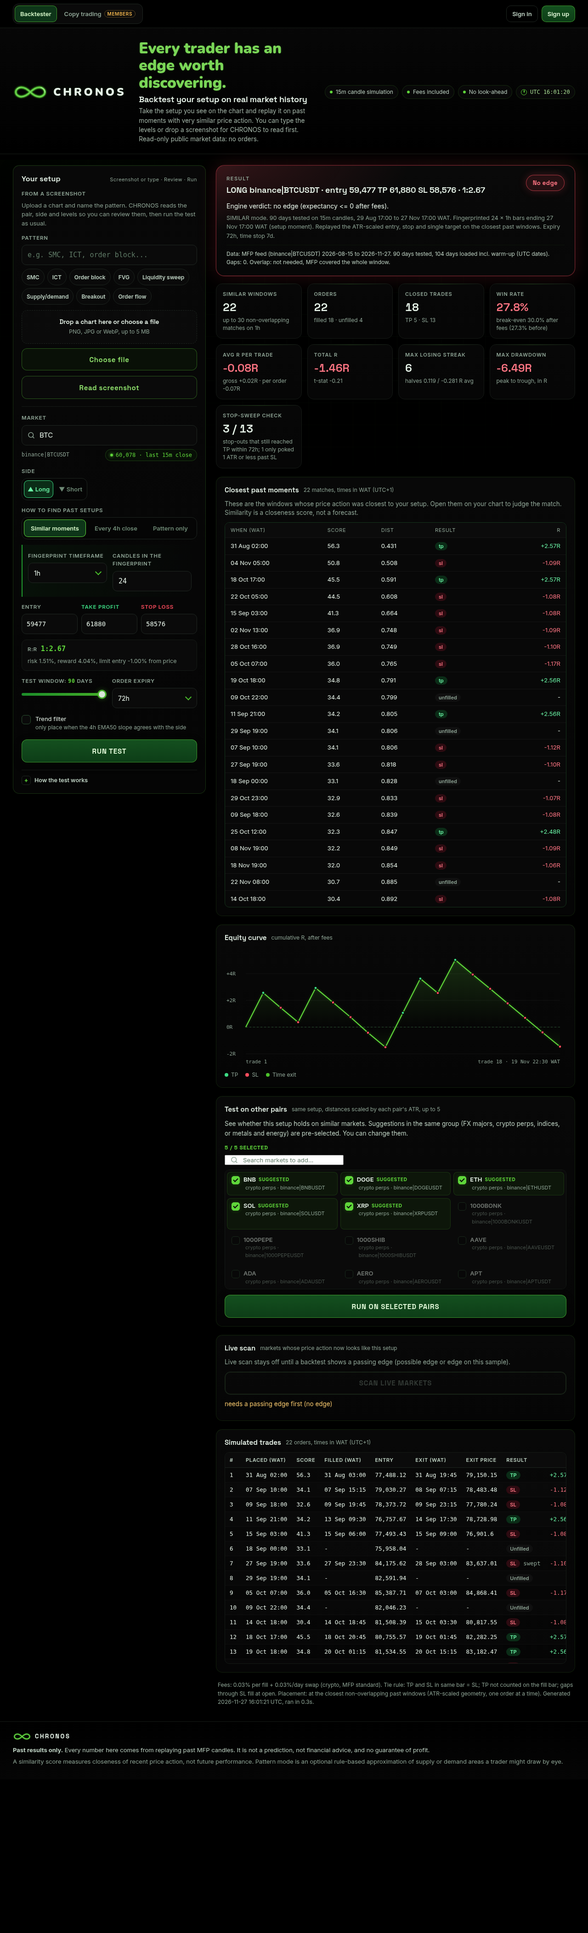
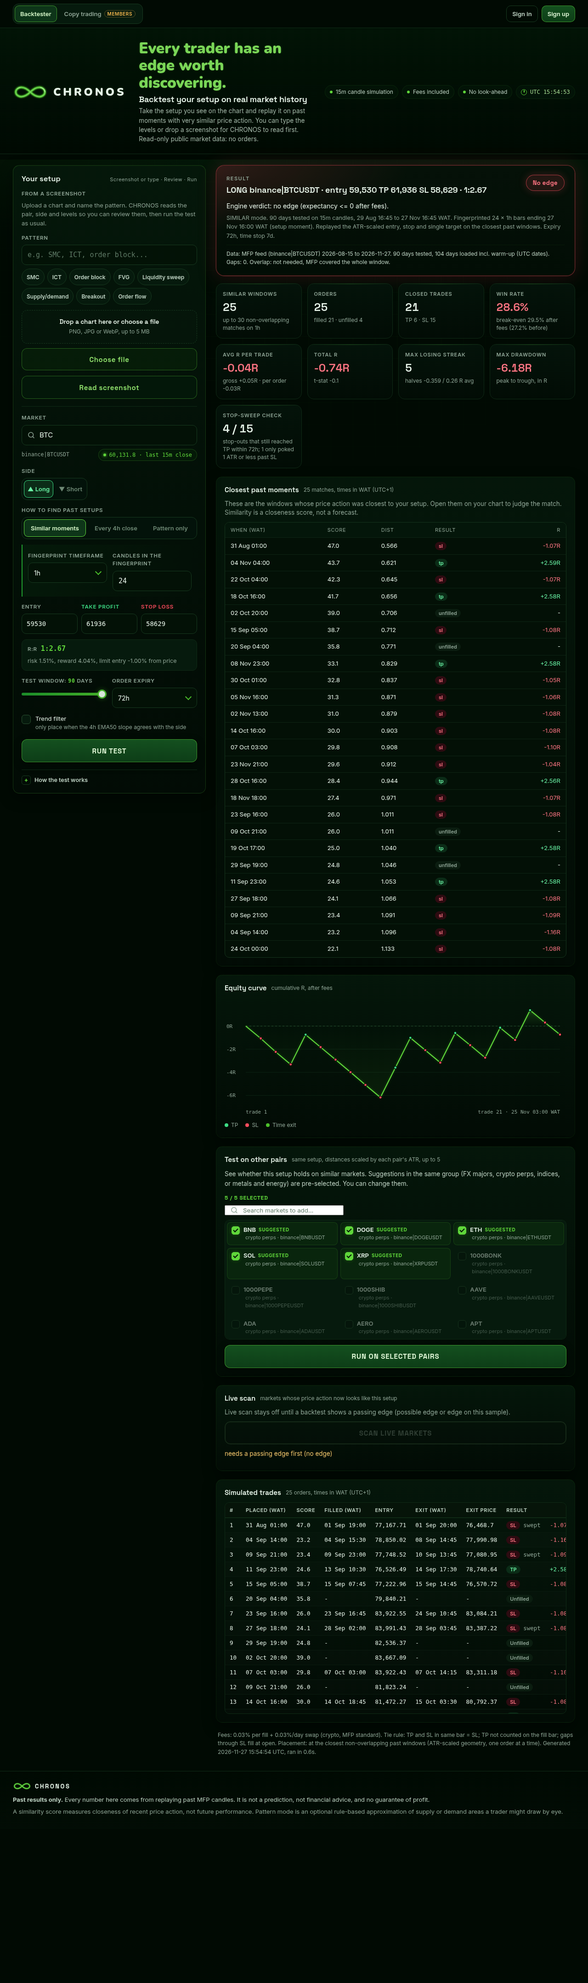
Revert "True black background with neutral black panels; green accents kept"
This reverts commit dd46ae83fead7a7c941cc9db5a52b5ef10f94675.

diff --git a/web/static/style.css b/web/static/style.css
@@ -2,7 +2,7 @@
 @font-face{font-family:"Inter";src:url(assets/fonts/inter-var-latin.woff2) format("woff2");font-weight:100 900;font-display:swap}
 @font-face{font-family:"Space Grotesk";src:url(assets/fonts/space-grotesk-var-latin.woff2) format("woff2");font-weight:300 700;font-display:swap}
 :root{
-  --bg:#050505; --bg2:#070707; --panel:#0a0a0a; --panel2:#0e0e0e; --panel3:#131313;
+  --bg:#010a03; --bg2:#020d05; --panel:#04130a; --panel2:#061a0d; --panel3:#0a2212;
   --line:#0f2a16; --line2:#17391f; --edge:rgba(95,214,58,0.077);
   --txt:#e8f5ea; --txt2:#bfd3c4; --mut:#8fa596;
   --cyan:#4dff1a; --cyan2:#39e61a; --teal:#1f9c2e; --teal-d:#0a3a12;
@@ -26,7 +26,7 @@ a{color:var(--cyan)}
 .hero,.wrap,.foot{position:relative;z-index:1}
 
 /* ---------- hero */
-.hero{border-bottom:1px solid var(--line);background:linear-gradient(180deg,rgba(10,10,10,.6),rgba(5,5,5,0))}
+.hero{border-bottom:1px solid var(--line);background:linear-gradient(180deg,rgba(4,18,8,.6),rgba(1,10,3,0))}
 .hero-in{max-width:1400px;margin:0 auto;padding:26px 28px 22px;display:grid;grid-template-columns:auto 1fr auto;gap:28px;align-items:center}
 .brand{display:flex;align-items:center;gap:12px;text-decoration:none}
 .mark{width:68px;height:34px;filter:drop-shadow(0 0 10px rgba(95,214,58,0.248));animation:pulse 4.5s ease-in-out infinite}
@@ -35,14 +35,14 @@ a{color:var(--cyan)}
 .hero-copy h1{margin:0;font:600 22px/1.25 var(--disp);letter-spacing:-.01em}
 .hero-copy .sub{margin:4px 0 0;color:var(--mut);font-size:13.5px;max-width:640px}
 .hero-pills{display:flex;gap:8px;list-style:none;margin:0;padding:0;flex-wrap:wrap;justify-content:flex-end}
-.hero-pills li{display:flex;align-items:center;gap:7px;font-size:12px;color:var(--txt2);border:1px solid var(--line2);background:rgba(13,13,13,.7);padding:5px 10px;border-radius:999px;white-space:nowrap}
+.hero-pills li{display:flex;align-items:center;gap:7px;font-size:12px;color:var(--txt2);border:1px solid var(--line2);background:rgba(6,24,12,.7);padding:5px 10px;border-radius:999px;white-space:nowrap}
 .dot{width:6px;height:6px;border-radius:50%;background:var(--cyan);box-shadow:0 0 8px var(--cyan)}
 
 /* ---------- layout */
 .wrap{max-width:1400px;margin:0 auto;display:grid;grid-template-columns:420px minmax(0,1fr);gap:22px;padding:24px 28px 32px;align-items:start}
 .form-panel{position:relative}
 .results{min-width:0}
-.panel{background:linear-gradient(180deg,var(--panel),#060606);border:1px solid var(--line);border-radius:var(--r);padding:18px;margin-bottom:18px;
+.panel{background:linear-gradient(180deg,var(--panel),#020c05);border:1px solid var(--line);border-radius:var(--r);padding:18px;margin-bottom:18px;
   box-shadow:inset 0 1px 0 rgba(95,214,58,0.028),0 10px 30px rgba(0,0,0,.35)}
 .panel-title{display:flex;justify-content:space-between;align-items:baseline;gap:10px;margin-bottom:6px}
 .panel-title h2{margin:0;font:600 16px var(--disp);letter-spacing:.01em}
@@ -70,7 +70,7 @@ select:disabled{opacity:.45;cursor:not-allowed}
 .ac{position:relative}
 .ac-ico{position:absolute;left:12px;top:50%;width:18px;height:18px;transform:translateY(-50%);stroke:var(--mut);fill:none;stroke-width:2;stroke-linecap:round;pointer-events:none}
 .ac input{padding-left:38px;font-family:var(--sans)}
-.ac-list{position:absolute;z-index:20;left:0;right:0;top:calc(100% + 6px);margin:0;padding:6px;list-style:none;background:#0a0a0a;
+.ac-list{position:absolute;z-index:20;left:0;right:0;top:calc(100% + 6px);margin:0;padding:6px;list-style:none;background:#051409;
   border:1px solid var(--line2);border-radius:var(--r-sm);max-height:300px;overflow:auto;box-shadow:0 18px 40px rgba(0,0,0,.6),var(--glow)}
 .ac-list li{padding:9px 10px;border-radius:8px;cursor:pointer;display:flex;justify-content:space-between;gap:10px;font-weight:500}
 .ac-list li.act,.ac-list li:hover{background:rgba(57,200,20,0.055);color:#fff}
@@ -111,7 +111,7 @@ input[type=range]:focus-visible{outline:2px solid var(--cyan2);outline-offset:4p
 .chk{display:flex;gap:10px;align-items:flex-start;margin-top:14px;color:var(--txt);font-size:13px;cursor:pointer;line-height:1.45}
 .chk input{position:absolute;opacity:0;width:1px;height:1px}
 .chk .box{flex:none;width:20px;height:20px;margin-top:1px;border-radius:6px;border:1.5px solid #2a4f30;background:var(--panel2);display:grid;place-items:center;transition:all .15s}
-.chk .box::after{content:"";width:5px;height:10px;border:solid #080808;border-width:0 2.5px 2.5px 0;transform:rotate(45deg) translate(-1px,-1px);opacity:0}
+.chk .box::after{content:"";width:5px;height:10px;border:solid #021005;border-width:0 2.5px 2.5px 0;transform:rotate(45deg) translate(-1px,-1px);opacity:0}
 .chk input:checked+.box{background:var(--cyan);border-color:var(--cyan);box-shadow:0 0 10px rgba(95,214,58,0.275)}
 .chk input:checked+.box::after{opacity:1}
 .chk input:focus-visible+.box{outline:2px solid var(--cyan2);outline-offset:2px}
@@ -123,7 +123,7 @@ input[type=range]:focus-visible{outline:2px solid var(--cyan2);outline-offset:4p
 .run:active{transform:translateY(1px)}
 .run:focus-visible{outline:2px solid #fff;outline-offset:3px}
 .run:disabled{cursor:wait;filter:saturate(.6) brightness(.85)}
-.spin{width:16px;height:16px;border:2px solid rgba(8,8,8,.3);border-top-color:#021405;border-radius:50%;animation:s .8s linear infinite;flex:none}
+.spin{width:16px;height:16px;border:2px solid rgba(2,16,6,.3);border-top-color:#021405;border-radius:50%;animation:s .8s linear infinite;flex:none}
 @keyframes s{to{transform:rotate(360deg)}}
 .err,.inline-err{margin-top:10px;color:#ff9aa7;font-size:13px}
 .err{background:rgba(255,77,94,.08);border:1px solid rgba(255,77,94,.3);padding:9px 12px;border-radius:10px}
@@ -144,7 +144,7 @@ input[type=range]:focus-visible{outline:2px solid var(--cyan2);outline-offset:4p
 .shot-picks button:hover{border-color:#2a5a33;color:var(--txt)}
 .shot-picks button:focus-visible{outline:2px solid var(--cyan2);outline-offset:1px}
 .shot-picks button.on{border-color:rgba(95,214,58,0.248);color:var(--cyan);background:rgba(57,200,20,0.066);box-shadow:0 0 12px rgba(95,214,58,0.066)}
-.shot-drop{position:relative;display:block;margin-top:12px;border:1px dashed var(--line2);border-radius:12px;padding:16px 14px;text-align:center;cursor:pointer;background:rgba(13,13,13,.5);transition:border-color .15s,background .15s,box-shadow .15s}
+.shot-drop{position:relative;display:block;margin-top:12px;border:1px dashed var(--line2);border-radius:12px;padding:16px 14px;text-align:center;cursor:pointer;background:rgba(6,24,12,.5);transition:border-color .15s,background .15s,box-shadow .15s}
 .shot-drop:hover,.shot-drop:focus-visible{border-color:var(--cyan2);box-shadow:0 0 0 3px rgba(57,200,20,0.066);outline:none}
 .shot-choose{position:relative;margin-top:10px;min-height:48px;border-radius:12px;border:1px solid rgba(95,214,58,0.248);background:rgba(57,200,20,0.044);color:var(--cyan);font:650 15px var(--disp);letter-spacing:.04em;display:flex;align-items:center;justify-content:center;cursor:pointer}
 .shot-choose:hover{background:rgba(57,200,20,0.077)}
@@ -176,7 +176,7 @@ input.unsure,select.unsure{border-color:rgba(240,180,76,.65)!important;box-shado
 .empty-steps{display:flex;justify-content:center;gap:10px;flex-wrap:wrap;list-style:none;padding:0;margin:20px 0 0;counter-reset:st}
 .empty-steps li{counter-increment:st;display:flex;align-items:center;gap:8px;font-size:12.5px;color:var(--txt2);border:1px solid var(--line2);background:var(--panel);padding:6px 12px 6px 6px;border-radius:999px}
 .empty-steps li::before{content:counter(st);display:grid;place-items:center;width:20px;height:20px;border-radius:50%;background:rgba(57,200,20,0.083);color:var(--cyan);font-weight:700;font-size:11px}
-.sk{background:linear-gradient(90deg,var(--panel) 0%,#141414 50%,var(--panel) 100%);background-size:200% 100%;animation:shim 1.4s linear infinite;border-radius:var(--r);border:1px solid var(--line)}
+.sk{background:linear-gradient(90deg,var(--panel) 0%,#0b2412 50%,var(--panel) 100%);background-size:200% 100%;animation:shim 1.4s linear infinite;border-radius:var(--r);border:1px solid var(--line)}
 @keyframes shim{to{background-position:-200% 0}}
 .sk-verdict{height:130px;margin-bottom:14px}
 .sk-cards{display:grid;grid-template-columns:repeat(4,1fr);gap:12px;margin-bottom:14px}
@@ -187,7 +187,7 @@ input.unsure,select.unsure{border-color:rgba(240,180,76,.65)!important;box-shado
 
 /* ---------- results */
 .verdict-card{--vc:var(--cyan);position:relative;border-radius:18px;padding:20px 22px;margin-bottom:16px;border:1px solid color-mix(in srgb,var(--vc) 45%,transparent);
-  background:radial-gradient(600px 200px at 0% 0%,color-mix(in srgb,var(--vc) 16%,transparent),transparent 70%),linear-gradient(180deg,#090909,#070707);
+  background:radial-gradient(600px 200px at 0% 0%,color-mix(in srgb,var(--vc) 16%,transparent),transparent 70%),linear-gradient(180deg,#051108,#020d05);
   box-shadow:0 0 0 1px color-mix(in srgb,var(--vc) 10%,transparent),0 0 40px color-mix(in srgb,var(--vc) 16%,transparent),0 14px 36px rgba(0,0,0,.4)}
 .verdict-card.edge{--vc:var(--grn)} .verdict-card.noedge{--vc:var(--red)} .verdict-card.few{--vc:var(--amb)} .verdict-card.maybe{--vc:var(--cyan)}
 .res-head{display:flex;justify-content:space-between;align-items:flex-start;gap:14px}
@@ -204,7 +204,7 @@ input.unsure,select.unsure{border-color:rgba(240,180,76,.65)!important;box-shado
 .provenance{margin-top:10px;padding-top:10px;border-top:1px solid rgba(95,214,58,0.066);color:var(--txt2);font-size:12px}
 .warn{background:rgba(240,180,76,.07);border:1px solid rgba(240,180,76,.3);color:#f5c977;padding:10px 14px;border-radius:12px;margin-bottom:16px;font-size:13px;line-height:1.55}
 .cards{display:grid;grid-template-columns:repeat(auto-fill,minmax(180px,1fr));gap:12px;margin-bottom:18px}
-.card{background:linear-gradient(180deg,var(--panel),#060606);border:1px solid var(--line);border-radius:var(--r);padding:14px;position:relative;overflow:hidden;transition:border-color .15s}
+.card{background:linear-gradient(180deg,var(--panel),#020c05);border:1px solid var(--line);border-radius:var(--r);padding:14px;position:relative;overflow:hidden;transition:border-color .15s}
 .card::before{content:"";position:absolute;left:0;top:0;right:0;height:1px;background:linear-gradient(90deg,transparent,rgba(95,214,58,0.22),transparent)}
 .card:hover{border-color:var(--line2)}
 .card .k{color:var(--mut);font-size:11px;font-weight:600;text-transform:uppercase;letter-spacing:.08em}
@@ -218,14 +218,14 @@ canvas{width:100%;display:block}
 .lg.tp{background:var(--grn)} .lg.sl{background:var(--red)} .lg.time{background:var(--cyan2)}
 .tbl-wrap{max-height:460px;overflow:auto;border:1px solid var(--line);border-radius:var(--r-sm);-webkit-overflow-scrolling:touch;overscroll-behavior-x:contain}
 table{width:100%;border-collapse:separate;border-spacing:0;font:12.5px var(--mono);font-variant-numeric:tabular-nums}
-th{position:sticky;top:0;z-index:1;background:#0b0b0b;text-align:left;color:var(--txt2);font:600 11px var(--sans);letter-spacing:.06em;text-transform:uppercase;padding:9px 10px;border-bottom:1px solid var(--line2);white-space:nowrap}
-td{padding:8px 10px;border-bottom:1px solid #0f0f0f;white-space:nowrap;color:var(--txt)}
+th{position:sticky;top:0;z-index:1;background:#061409;text-align:left;color:var(--txt2);font:600 11px var(--sans);letter-spacing:.06em;text-transform:uppercase;padding:9px 10px;border-bottom:1px solid var(--line2);white-space:nowrap}
+td{padding:8px 10px;border-bottom:1px solid #0a1a0f;white-space:nowrap;color:var(--txt)}
 tbody tr:nth-child(even) td{background:rgba(255,255,255,.012)}
 tbody tr:hover td{background:rgba(57,200,20,0.028)}
 .r{text-align:right}
 .tag{padding:2px 8px;border-radius:999px;font:600 11px var(--sans)}
 .tag.tp{background:rgba(61,220,132,.14);color:var(--grn)} .tag.sl{background:rgba(255,77,94,.14);color:#ff7583}
-.tag.time{background:rgba(57,200,20,0.077);color:var(--cyan)} .tag.unf{background:#101010;color:var(--mut)}
+.tag.time{background:rgba(57,200,20,0.077);color:var(--cyan)} .tag.unf{background:#0b1d10;color:var(--mut)}
 .meta{color:var(--mut);font-size:12px;line-height:1.55;padding:0 4px}
 
 /* ---------- insights */
@@ -248,7 +248,7 @@ tbody tr:hover td{background:rgba(57,200,20,0.028)}
 .ins-disc{color:var(--mut);font-size:12px;margin-top:6px;padding-top:10px;border-top:1px solid var(--line)}
 
 /* ---------- footer + toasts */
-.foot{border-top:1px solid var(--line);background:linear-gradient(0deg,#070707,transparent)}
+.foot{border-top:1px solid var(--line);background:linear-gradient(0deg,#020d05,transparent)}
 .foot-in{max-width:1400px;margin:0 auto;padding:22px 28px calc(28px + env(safe-area-inset-bottom));display:grid;gap:6px;font-size:13px;color:var(--txt2)}
 .foot-in p{margin:0}
 .foot-brand{display:flex;align-items:center;gap:8px;font:700 13px var(--disp);letter-spacing:.2em;color:var(--txt);margin-bottom:4px}
@@ -274,7 +274,7 @@ tbody tr:hover td{background:rgba(57,200,20,0.028)}
 .cmp-item.is-off{opacity:.45;cursor:not-allowed}
 .cmp-item input{position:absolute;opacity:0;width:1px;height:1px}
 .cmp-item .box{flex:none;width:18px;height:18px;margin-top:1px;border-radius:5px;border:1.5px solid #2a4f30;background:var(--panel);display:grid;place-items:center}
-.cmp-item .box::after{content:"";width:4px;height:8px;border:solid #080808;border-width:0 2px 2px 0;transform:rotate(45deg) translate(-1px,-1px);opacity:0}
+.cmp-item .box::after{content:"";width:4px;height:8px;border:solid #021005;border-width:0 2px 2px 0;transform:rotate(45deg) translate(-1px,-1px);opacity:0}
 .cmp-item input:checked+.box{background:var(--cyan);border-color:var(--cyan);box-shadow:0 0 8px rgba(95,214,58,0.248)}
 .cmp-item input:checked+.box::after{opacity:1}
 .cmp-item input:focus-visible+.box{outline:2px solid var(--cyan2);outline-offset:2px}
@@ -287,8 +287,8 @@ tbody tr:hover td{background:rgba(57,200,20,0.028)}
 .cmp-summary{margin:16px 0 12px;padding:12px 14px;border-radius:12px;border:1px solid rgba(95,214,58,0.165);background:linear-gradient(90deg,rgba(57,200,20,0.055),rgba(57,200,20,0.011));font:600 14.5px/1.45 var(--disp);color:var(--txt)}
 .cmp-table{display:grid;gap:0;border:1px solid var(--line);border-radius:var(--r-sm);overflow:hidden;font-size:12.5px}
 .cmp-thead,.cmp-row{display:grid;grid-template-columns:minmax(7.5rem,1.3fr) 4.2rem 6.4rem 4.6rem 4.6rem 5.4rem minmax(7rem,1.4fr) minmax(7rem,1.3fr);gap:8px;align-items:start;padding:9px 12px}
-.cmp-thead{background:#0b0b0b;color:var(--txt2);font:600 11px var(--sans);letter-spacing:.05em;text-transform:uppercase}
-.cmp-row{border-top:1px solid #0f0f0f;color:var(--txt);font-variant-numeric:tabular-nums}
+.cmp-thead{background:#061409;color:var(--txt2);font:600 11px var(--sans);letter-spacing:.05em;text-transform:uppercase}
+.cmp-row{border-top:1px solid #0a1a0f;color:var(--txt);font-variant-numeric:tabular-nums}
 .cmp-row:nth-child(odd){background:rgba(255,255,255,.012)}
 .cmp-row.pooled{background:rgba(57,200,20,0.039);border-top:1px solid rgba(95,214,58,0.138);font-weight:600}
 .cmp-row.source .pair-name::after{content:" source";color:var(--mut);font:600 10px var(--sans);letter-spacing:.06em;text-transform:uppercase}
@@ -309,7 +309,7 @@ tbody tr:hover td{background:rgba(57,200,20,0.028)}
 .cmp-card .dat{margin-top:4px;color:var(--mut);font-size:12px;line-height:1.4}
 
 /* ---------- top bar: tabs + account */
-.topbar{border-bottom:1px solid var(--line);background:rgba(5,5,5,.72);backdrop-filter:blur(8px);-webkit-backdrop-filter:blur(8px)}
+.topbar{border-bottom:1px solid var(--line);background:rgba(1,10,3,.72);backdrop-filter:blur(8px);-webkit-backdrop-filter:blur(8px)}
 .topbar-in{max-width:1400px;margin:0 auto;padding:8px 28px;display:flex;align-items:center;justify-content:space-between;gap:12px}
 .tabs{display:flex;gap:4px;background:var(--panel2);border:1px solid var(--line2);border-radius:12px;padding:3px;min-width:0}
 .tab{display:flex;align-items:center;gap:6px;min-height:36px;padding:6px 12px;border-radius:9px;color:var(--mut);text-decoration:none;font:600 13px var(--sans);white-space:nowrap;transition:background .15s,color .15s}
@@ -320,8 +320,8 @@ tbody tr:hover td{background:rgba(57,200,20,0.028)}
 .acct{display:flex;align-items:center;gap:8px;min-width:0}
 .acct-btn{display:inline-flex;align-items:center;justify-content:center;min-height:36px;padding:6px 12px;border-radius:10px;border:1px solid var(--line2);background:transparent;color:var(--txt2);font:600 13px var(--sans);text-decoration:none;cursor:pointer;white-space:nowrap}
 .acct-btn:hover{border-color:#2a5a33;color:var(--txt)}
-.acct-btn.primary,.btn-acc.primary{background:linear-gradient(180deg,var(--cyan),var(--cyan2));color:#0c0c0c;border-color:transparent;box-shadow:0 0 18px rgba(95,214,58,0.138)}
-.acct-btn.primary:hover,.btn-acc.primary:hover{filter:brightness(1.08);color:#0c0c0c}
+.acct-btn.primary,.btn-acc.primary{background:linear-gradient(180deg,var(--cyan),var(--cyan2));color:#011a05;border-color:transparent;box-shadow:0 0 18px rgba(95,214,58,0.138)}
+.acct-btn.primary:hover,.btn-acc.primary:hover{filter:brightness(1.08);color:#011a05}
 .acct-email{color:var(--txt2);font-size:12.5px;max-width:200px;overflow:hidden;text-overflow:ellipsis;white-space:nowrap}
 
 /* ---------- copy trading */
@@ -336,7 +336,7 @@ tbody tr:hover td{background:rgba(57,200,20,0.028)}
 .btn-acc:disabled{opacity:.6;cursor:wait}
 .btn-acc.block{width:100%;margin-top:18px}
 .ct-soon{display:grid;gap:10px;margin-top:18px}
-.ct-soon span{height:56px;border-radius:12px;border:1px dashed var(--line2);background:linear-gradient(90deg,rgba(13,13,13,.6),rgba(57,200,20,0.028),rgba(13,13,13,.6));background-size:200% 100%;animation:shimmer 2.4s linear infinite}
+.ct-soon span{height:56px;border-radius:12px;border:1px dashed var(--line2);background:linear-gradient(90deg,rgba(6,24,12,.6),rgba(57,200,20,0.028),rgba(6,24,12,.6));background-size:200% 100%;animation:shimmer 2.4s linear infinite}
 @keyframes shimmer{0%{background-position:200% 0}100%{background-position:-200% 0}}
 
 /* ---------- auth pages */
@@ -410,15 +410,15 @@ tbody tr:hover td{background:rgba(57,200,20,0.028)}
 .mode-block .seg{display:flex;flex-wrap:wrap}
 .mode-block .seg button{flex:1 1 auto;min-width:7.5rem}
 .sim-lead,.scan-lead{margin:0 0 10px;color:var(--muted,#8fa596);font-size:13.5px;line-height:1.45}
-.sim-table,.scan-table{display:grid;gap:0;border:1px solid #15331c;border-radius:10px;overflow:hidden;background:#080808}
-.sim-tr,.scan-tr{display:grid;grid-template-columns:1.3fr .7fr .7fr 1fr .7fr;gap:8px;padding:8px 12px;align-items:center;border-top:1px solid #141414;font-size:13px}
+.sim-table,.scan-table{display:grid;gap:0;border:1px solid #15331c;border-radius:10px;overflow:hidden;background:#031006}
+.sim-tr,.scan-tr{display:grid;grid-template-columns:1.3fr .7fr .7fr 1fr .7fr;gap:8px;padding:8px 12px;align-items:center;border-top:1px solid #0d2414;font-size:13px}
 .scan-tr{grid-template-columns:.7fr 1.4fr .9fr .9fr .9fr .6fr 1.3fr}
-.sim-hd,.scan-hd{border-top:0;color:#8fa596;font-size:11px;letter-spacing:.06em;text-transform:uppercase;background:#0b0b0b}
+.sim-hd,.scan-hd{border-top:0;color:#8fa596;font-size:11px;letter-spacing:.06em;text-transform:uppercase;background:#04160a}
 .sim-cards,.scan-cards{display:none}
-.sim-card,.scan-card{border:1px solid #15331c;border-radius:10px;padding:12px;background:#080808}
+.sim-card,.scan-card{border:1px solid #15331c;border-radius:10px;padding:12px;background:#031006}
 .sim-when,.scan-side{font-weight:600}
 .sim-sc,.scan-sc{color:#4dff1a;font-variant-numeric:tabular-nums}
-.scan-run{margin:4px 0 10px;background:#101010;border:1px solid #4dff1a;color:#f0fff0}
+.scan-run{margin:4px 0 10px;background:#05200c;border:1px solid #4dff1a;color:#f0fff0}
 .scan-run:disabled{opacity:.45;border-color:#2a5a30;color:#73907a}
 .scan-gate{margin:0 0 8px;color:#f3c56b;font-size:13.5px}
 .scan-skel{display:flex;gap:10px;align-items:center;color:#8fa596;margin:8px 0}
@@ -442,7 +442,7 @@ tbody tr:hover td{background:rgba(57,200,20,0.028)}
    ===================================================================== */
 :root{
   --neon:#4dff1a; --neon2:#39ff14; --neon-soft:#b8ff9c;
-  --bg-top:#0d0d0d; --bg-bot:#050505;
+  --bg-top:#031a08; --bg-bot:#010a03;
   --round:"Nunito","Space Grotesk",ui-rounded,system-ui,sans-serif;
   --nglow:0 0 6px rgba(95,214,58,0.303),0 0 18px rgba(95,214,58,0.193),0 0 42px rgba(57,200,20,0.099);
 }
@@ -490,11 +490,11 @@ body{background:radial-gradient(1200px 700px at 50% -10%,var(--bg-top),var(--bg-
 .hero-copy .sub{color:var(--txt2);opacity:.85}
 
 /* hero: a light runs along the bottom edge like a timeline */
-.hero{position:relative;background:linear-gradient(180deg,rgba(13,13,13,.75),rgba(5,5,5,0))}
+.hero{position:relative;background:linear-gradient(180deg,rgba(3,26,8,.75),rgba(1,10,3,0))}
 .hero::after{content:"";position:absolute;left:0;bottom:-1px;height:1px;width:28%;pointer-events:none;
   background:linear-gradient(90deg,transparent,var(--neon),transparent);box-shadow:0 0 10px var(--neon);animation:timeline 7s linear infinite}
 @keyframes timeline{from{transform:translateX(-100%)}to{transform:translateX(360%)}}
-.hero-pills li{border-color:rgba(95,214,58,0.099);background:rgba(11,11,11,.7)}
+.hero-pills li{border-color:rgba(95,214,58,0.099);background:rgba(3,22,8,.7)}
 .dot{background:var(--neon);box-shadow:0 0 8px var(--neon);animation:blinkDot 2.4s ease-in-out infinite}
 .hero-pills li:nth-child(2) .dot{animation-delay:.8s} .hero-pills li:nth-child(3) .dot{animation-delay:1.6s}
 @keyframes blinkDot{50%{opacity:.35;box-shadow:0 0 2px var(--neon)}}
@@ -503,7 +503,7 @@ body{background:radial-gradient(1200px 700px at 50% -10%,var(--bg-top),var(--bg-
 .clock-ico i{position:absolute;left:50%;top:1.5px;width:1.5px;height:4.5px;margin-left:-.75px;background:var(--neon);transform-origin:50% 100%;animation:sweep 60s steps(60) infinite}
 
 /* panels: green edge, gentle rise-in, hover glow */
-.panel{border-color:rgba(95,214,58,0.072);background:linear-gradient(180deg,rgba(13,13,13,.92),rgba(6,6,6,.94));
+.panel{border-color:rgba(95,214,58,0.072);background:linear-gradient(180deg,rgba(5,24,11,.92),rgba(2,12,5,.94));
   box-shadow:inset 0 1px 0 rgba(95,214,58,0.044),0 10px 30px rgba(0,0,0,.45);transition:border-color .3s,box-shadow .3s}
 .panel:hover{border-color:rgba(95,214,58,0.132);box-shadow:inset 0 1px 0 rgba(95,214,58,0.055),0 0 26px rgba(95,214,58,0.033),0 10px 30px rgba(0,0,0,.45)}
 .wrap>.panel,.results>.empty,.ct-wrap .panel,.auth-card{animation:rise .6s cubic-bezier(.2,.8,.2,1) backwards}
@@ -522,9 +522,9 @@ body{background:radial-gradient(1200px 700px at 50% -10%,var(--bg-top),var(--bg-
 @keyframes sheen{from{background-position:120% 0}to{background-position:-60% 0}}
 
 /* inputs */
-input[type=text],input[type=number],input[type=email],input[type=password],select{background:rgba(9,9,9,.9);border-color:#17391f}
+input[type=text],input[type=number],input[type=email],input[type=password],select{background:rgba(3,18,7,.9);border-color:#17391f}
 input:hover,select:hover{border-color:#2a5a33}
-input:focus,select:focus{border-color:var(--neon);box-shadow:0 0 0 3px rgba(95,214,58,0.088),0 0 18px rgba(95,214,58,0.066);background:#0d0d0d}
+input:focus,select:focus{border-color:var(--neon);box-shadow:0 0 0 3px rgba(95,214,58,0.088),0 0 18px rgba(95,214,58,0.066);background:#04190a}
 input[type=range]{accent-color:var(--neon)}
 
 /* buttons: neon fill, glow and a light sweep on hover */
@@ -537,7 +537,7 @@ input[type=range]{accent-color:var(--neon)}
 @keyframes btnSweep{from{left:-60%}to{left:120%}}
 .run:hover{filter:brightness(1.05);box-shadow:0 0 0 1px rgba(160,255,120,.9),0 0 34px rgba(95,214,58,0.303),0 12px 36px rgba(57,200,20,0.193)}
 .run:disabled::after{display:none}
-.shot-run,.scan-run{background:rgba(15,15,15,.65);color:var(--neon);box-shadow:inset 0 0 0 1px rgba(95,214,58,0.275)}
+.shot-run,.scan-run{background:rgba(4,30,10,.65);color:var(--neon);box-shadow:inset 0 0 0 1px rgba(95,214,58,0.275)}
 .shot-run:hover,.scan-run:hover:not(:disabled){background:rgba(57,200,20,0.066);box-shadow:inset 0 0 0 1px rgba(95,214,58,0.468),0 0 24px rgba(95,214,58,0.138)}
 .shot-run::after,.scan-run::after{background:linear-gradient(100deg,transparent,rgba(95,214,58,0.138),transparent)}
 .acct-btn.primary,.btn-acc.primary{background:linear-gradient(180deg,#7dff52,var(--neon2));color:#021405;box-shadow:0 0 18px rgba(95,214,58,0.193)}
@@ -561,7 +561,7 @@ input[type=range]{accent-color:var(--neon)}
 .auth-brand .mark{width:96px;height:48px}
 
 /* copy trading placeholder */
-.ct-soon span{border-color:rgba(95,214,58,0.099);background:linear-gradient(90deg,rgba(11,11,11,.6),rgba(95,214,58,0.039),rgba(11,11,11,.6));background-size:200% 100%}
+.ct-soon span{border-color:rgba(95,214,58,0.099);background:linear-gradient(90deg,rgba(3,22,8,.6),rgba(95,214,58,0.039),rgba(3,22,8,.6));background-size:200% 100%}
 
 @media(max-width:640px){
   .tagline{font-size:23px}
@@ -581,7 +581,7 @@ input[type=range]{accent-color:var(--neon)}
 :root{--cyan:#5fd63a; --cyan2:#4cc22c; --glow:0 0 0 1px rgba(95,214,58,.14),0 0 12px rgba(95,214,58,.08);
   --neon:#5fd63a; --neon2:#4cc22c; --neon-soft:#a9dd94; --tag:#7ddc5a;
   --nglow:0 0 6px rgba(125,220,90,.18)}
-body{background:radial-gradient(1200px 700px at 50% -10%,#0c0c0c,var(--bg-bot) 70%) fixed,var(--bg-bot)}
+body{background:radial-gradient(1200px 700px at 50% -10%,#03170a,var(--bg-bot) 70%) fixed,var(--bg-bot)}
 .bg-glow{background:radial-gradient(900px 420px at 15% -10%,rgba(57,200,20,.05),transparent 60%),radial-gradient(700px 380px at 95% 0%,rgba(22,140,40,.06),transparent 60%)}
 .bg-grid{background-image:linear-gradient(rgba(110,220,80,.028) 1px,transparent 1px),linear-gradient(90deg,rgba(110,220,80,.028) 1px,transparent 1px)}
 .bg-sweep{background:conic-gradient(from 0deg,rgba(110,220,80,.022),rgba(110,220,80,0) 10%,transparent 100%);opacity:.7}
@@ -623,7 +623,7 @@ input:focus,select:focus{border-color:rgba(95,214,58,.7);box-shadow:0 0 0 3px rg
   box-shadow:inset 0 0 0 1px rgba(95,214,58,.55),0 6px 18px rgba(0,0,0,.35)}
 .run:hover{filter:none;background:linear-gradient(180deg,#186026,#10481b);box-shadow:inset 0 0 0 1px rgba(110,220,80,.8),0 0 14px rgba(95,214,58,.18),0 6px 18px rgba(0,0,0,.35)}
 .run::after,.acct-btn.primary::after,.btn-acc.primary::after{background:linear-gradient(100deg,transparent,rgba(190,255,170,.12),transparent)}
-.shot-run,.scan-run{background:rgba(14,14,14,.6);color:#8fe06c;box-shadow:inset 0 0 0 1px rgba(95,214,58,.38)}
+.shot-run,.scan-run{background:rgba(4,26,10,.6);color:#8fe06c;box-shadow:inset 0 0 0 1px rgba(95,214,58,.38)}
 .shot-run:hover,.scan-run:hover:not(:disabled){background:rgba(57,200,20,.08);box-shadow:inset 0 0 0 1px rgba(95,214,58,.6),0 0 10px rgba(95,214,58,.12)}
 .acct-btn.primary,.btn-acc.primary{background:linear-gradient(180deg,#14501f,#0d3d17);color:#dff7d6;border-color:rgba(95,214,58,.55);box-shadow:none}
 .acct-btn.primary:hover,.btn-acc.primary:hover{color:#f0fff0;border-color:rgba(110,220,80,.85);box-shadow:0 0 12px rgba(95,214,58,.16)}
@@ -642,10 +642,10 @@ input:focus,select:focus{border-color:rgba(95,214,58,.7);box-shadow:0 0 0 3px rg
 body{background:var(--bg-bot)}
 .bg-glow{transform:translateZ(0);contain:strict;
   background:radial-gradient(900px 420px at 15% -10%,rgba(57,200,20,.05),transparent 60%),radial-gradient(700px 380px at 95% 0%,rgba(22,140,40,.06),transparent 60%),
-    radial-gradient(1200px 700px at 50% -10%,#0c0c0c,var(--bg-bot) 70%)}
+    radial-gradient(1200px 700px at 50% -10%,#03170a,var(--bg-bot) 70%)}
 .bg-grid{animation:none;inset:0}          /* static grid, painted once */
 .bg-sweep{display:none;animation:none}     /* full-screen rotating layer removed */
-.topbar{backdrop-filter:none;-webkit-backdrop-filter:none;background:rgba(5,5,5,.94)}
+.topbar{backdrop-filter:none;-webkit-backdrop-filter:none;background:rgba(1,10,3,.94)}
 
 /* logo: glow is pre-drawn as wide faint strokes (no CSS filter); only the small tracer moves */
 .inf,.mark,.empty-mark,.foot-mark{filter:none;animation:none}
@@ -694,7 +694,7 @@ body{background:var(--bg-bot)}
   --sel-bg:#0e3519; --sel-edge:#5fd63a; --sel-txt:#d6f7c8; --unsel-txt:#6f8a76;
   --grn:var(--win); --red:var(--loss);
 }
-.toggle{background:#0a0a0a}
+.toggle{background:#03120a}
 .toggle button{color:var(--unsel-txt)}
 .toggle button:hover{color:#a9c4af}
 .toggle button.on{background:var(--sel-bg);color:var(--sel-txt);box-shadow:inset 0 0 0 1px var(--sel-edge)}
@@ -705,21 +705,3 @@ body{background:var(--bg-bot)}
 .tag.tp{background:var(--win-bg);color:var(--win-txt)} .tag.sl{background:var(--loss-bg);color:var(--loss-txt)}
 .shot-picks button.on{background:var(--sel-bg);color:var(--sel-txt);border-color:var(--sel-edge);box-shadow:none}
 .tab.on{background:var(--sel-bg);color:var(--sel-txt);box-shadow:inset 0 0 0 1px rgba(95,214,58,.6)}
-
-/* =====================================================================
-   BLACK PASS: true black page, neutral black panels, green accents kept
-   ===================================================================== */
-:root{--bg:#000; --bg2:#030303; --bg-top:#000; --bg-bot:#000;
-  --panel:#070707; --panel2:#0a0a0a; --panel3:#0e0e0e;
-  --line:#151a16; --line2:#1d241f}
-html,body{background:#000}
-.bg-glow{background:radial-gradient(900px 420px at 15% -10%,rgba(57,200,20,.035),transparent 60%),radial-gradient(700px 380px at 95% 0%,rgba(22,140,40,.035),transparent 60%),#000}
-.hero{background:linear-gradient(180deg,rgba(10,10,10,.8),rgba(0,0,0,0))}
-.topbar{background:rgba(0,0,0,.94)}
-.panel{background:linear-gradient(180deg,#080808,#050505);border-color:rgba(95,214,58,.12)}
-.panel:hover{border-color:rgba(95,214,58,.2)}
-.foot{background:linear-gradient(0deg,#050505,transparent)}
-input[type=text],input[type=number],input[type=email],input[type=password],select{background:#0a0a0a;border-color:#1f2621}
-input:focus,select:focus{background:#0d0d0d}
-.toggle{background:#050505}
-.hero-pills li{background:rgba(10,10,10,.8);border-color:rgba(95,214,58,.16)}

diff --git a/web/static/app.js b/web/static/app.js
@@ -472,7 +472,7 @@ function drawChart(tr) {
   const padY = (hi - lo) * .08; lo -= padY; hi += padY;
   const X = x => L + (x / Math.max(1, pts.length - 1)) * w, Y = y => T + (hi - y) / (hi - lo) * h;
   const stepR = niceStep((hi - lo) / 5);
-  c.strokeStyle = "#141414"; c.lineWidth = 1;
+  c.strokeStyle = "#0d2414"; c.lineWidth = 1;
   for (let v = Math.ceil(lo / stepR) * stepR; v <= hi; v += stepR) {
     c.beginPath(); c.moveTo(L, Y(v)); c.lineTo(W - R, Y(v)); c.stroke();
     c.fillText((v > 0 ? "+" : "") + v.toFixed(stepR < 1 ? 1 : 0) + "R", 4, Y(v) + 4);
@@ -489,7 +489,7 @@ function drawChart(tr) {
   c.strokeStyle = col; c.lineWidth = 2.2; c.lineJoin = "round"; c.shadowColor = "rgba(95,214,58,.35)"; c.shadowBlur = 5; c.stroke(); c.shadowBlur = 0;
   pts.slice(1).forEach(p => { c.beginPath(); c.arc(X(p.x), Y(p.y), 3, 0, 7);
     c.fillStyle = p.t.status === "tp" ? "#3ddc84" : p.t.status === "sl" ? "#ff4d5e" : "#4cc22c"; c.fill();
-    c.strokeStyle = "#050505"; c.lineWidth = 1.2; c.stroke(); });
+    c.strokeStyle = "#010a03"; c.lineWidth = 1.2; c.stroke(); });
   c.fillStyle = "#8fa596";
   c.fillText("trade 1", L, H - 8);
   const endLbl = `trade ${closed.length} · ${wat(closed[closed.length - 1].exit)} WAT`;

diff --git a/web/static/index.html b/web/static/index.html
@@ -3,7 +3,7 @@
 <head>
 <meta charset="utf-8">
 <meta name="viewport" content="width=device-width, initial-scale=1, viewport-fit=cover">
-<meta name="theme-color" content="#000000">
+<meta name="theme-color" content="#010a03">
 <meta name="description" content="CHRONOS: backtest your trade setup on real market history. Read-only public market data.">
 <title>CHRONOS · Backtest your setup on real market history</title>
 <link rel="icon" href="/static/assets/favicon.svg" type="image/svg+xml">

diff --git a/web/static/auth.html b/web/static/auth.html
@@ -3,7 +3,7 @@
 <head>
 <meta charset="utf-8">
 <meta name="viewport" content="width=device-width, initial-scale=1, viewport-fit=cover">
-<meta name="theme-color" content="#000000">
+<meta name="theme-color" content="#010a03">
 <meta name="robots" content="noindex">
 <title>Sign in · CHRONOS</title>
 <link rel="icon" href="/static/assets/favicon.svg" type="image/svg+xml">
